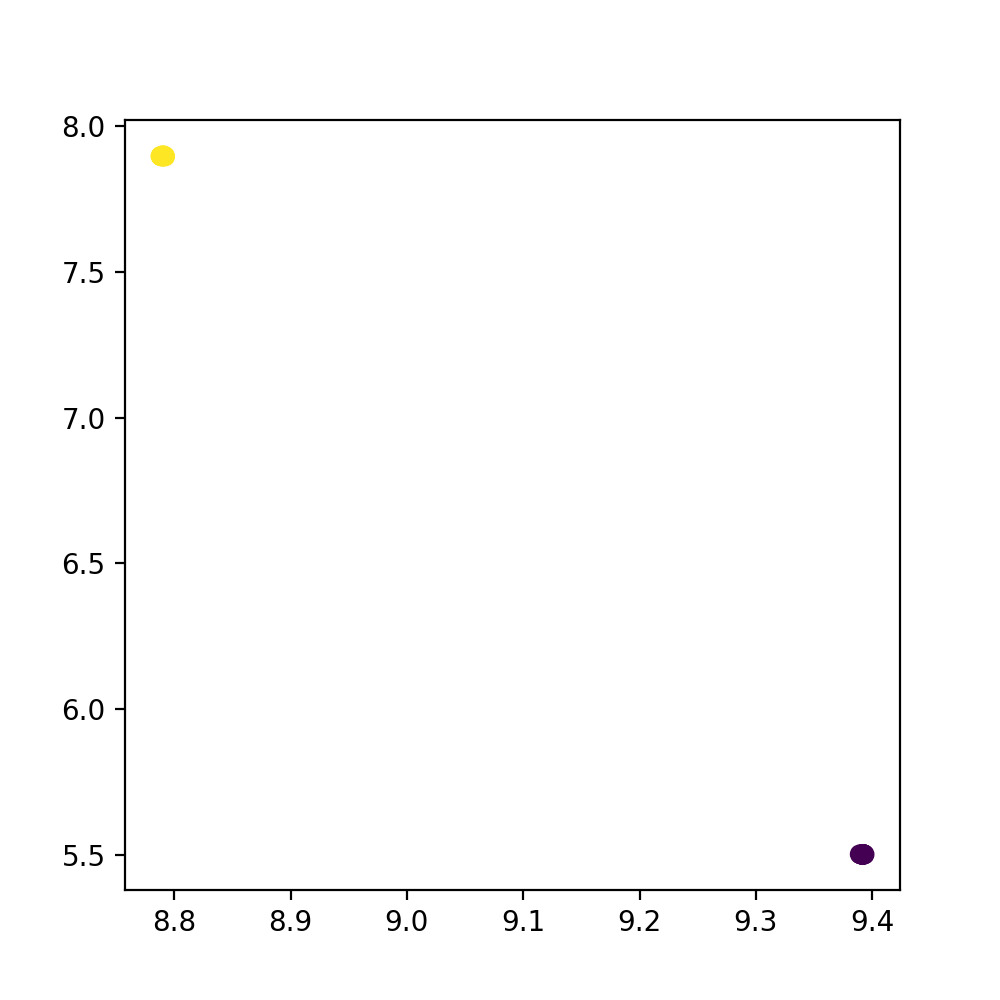
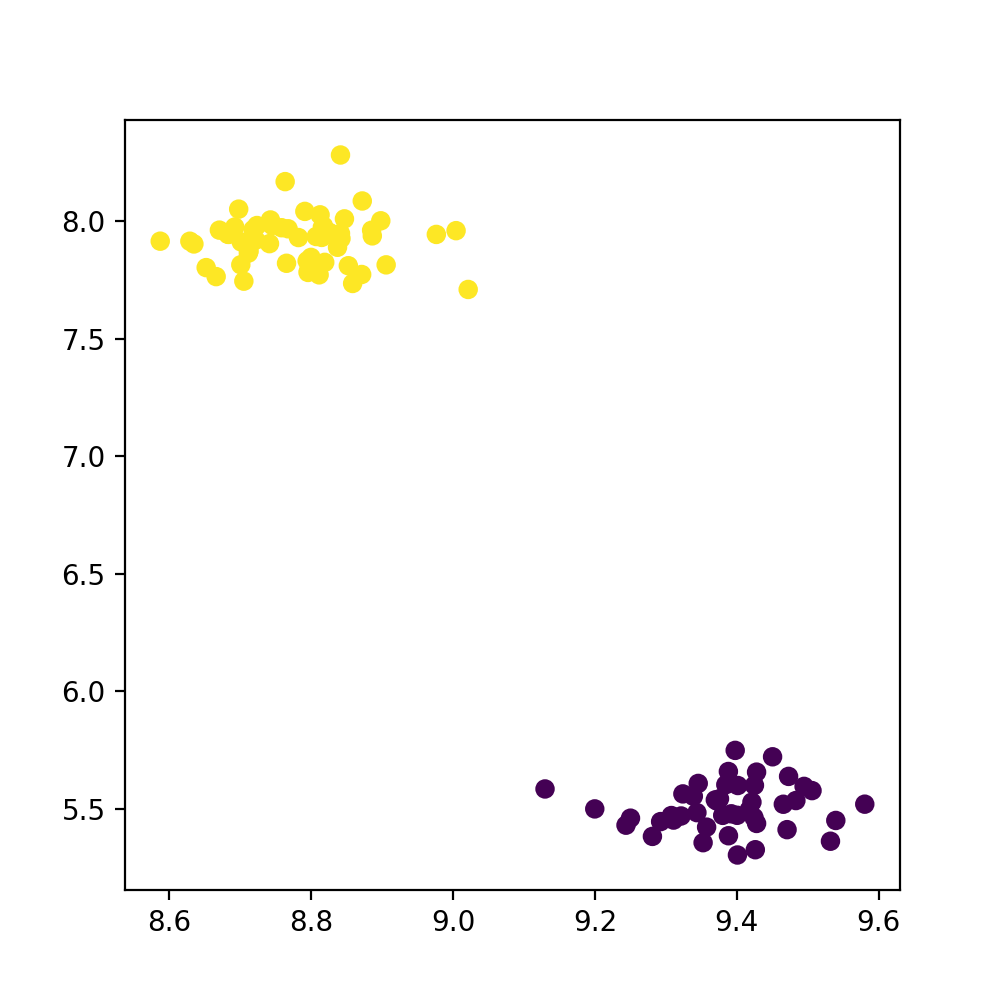
Change simulated data for unit tests

diff --git a/test/test_kmeans.py b/test/test_kmeans.py
@@ -15,7 +15,7 @@ def test_kmeans_predict():
     # Create test dataset of 100 observations, measured in 2 dimensions, with small sd
     test_clusters, test_cluster_labels  =  utils.make_clusters(n=100,
                                                                m=2,
-                                                               scale = 0.001,
+                                                               scale = 0.1,
                                                                k = 2
                                                                )
 
@@ -25,7 +25,7 @@ def test_kmeans_predict():
                         filename = "figures/unit_test_data_2d.png")
     
     # run kmeans model fitting and prediction: 
-    kmeans_model = km.KMeans(k = 2)
+    kmeans_model = km.KMeans(k = 2, max_iter = 5)
     kmeans_model.fit(mat = test_clusters)
     predicted_labels = kmeans_model.predict(mat = test_clusters)
     
